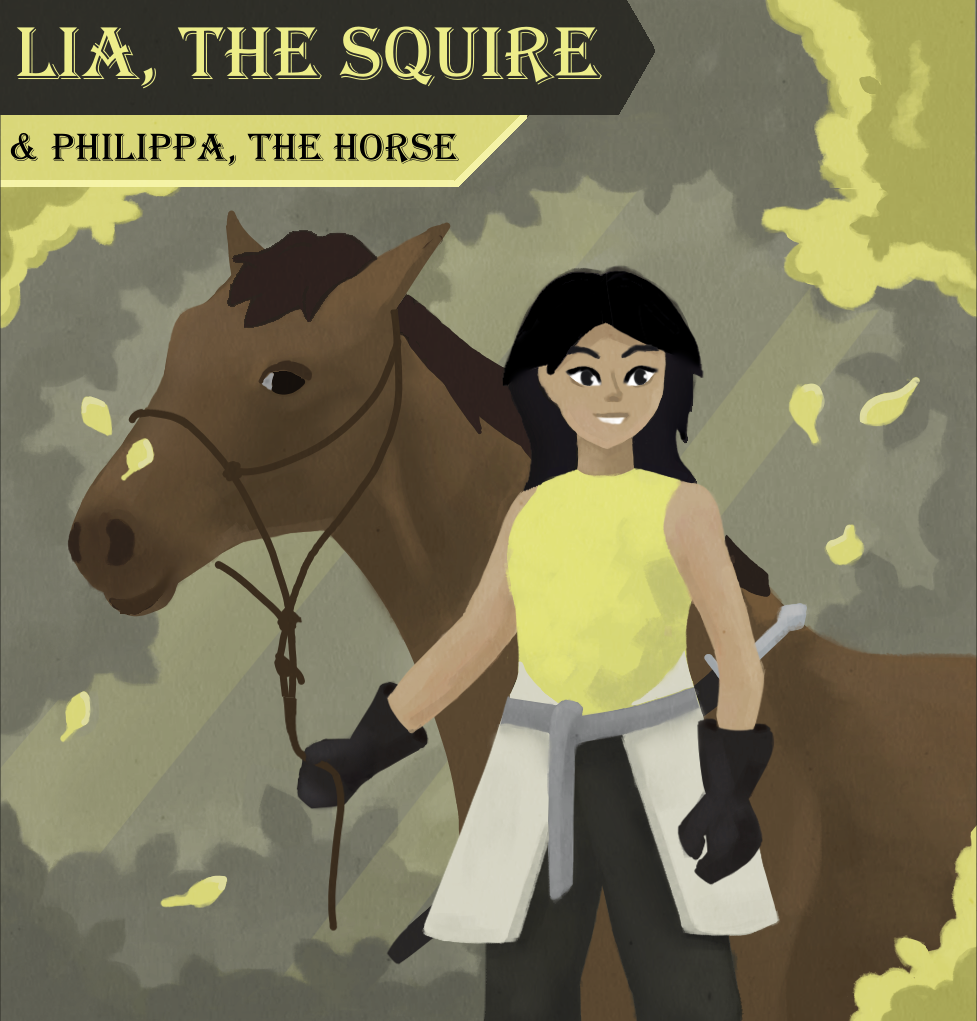
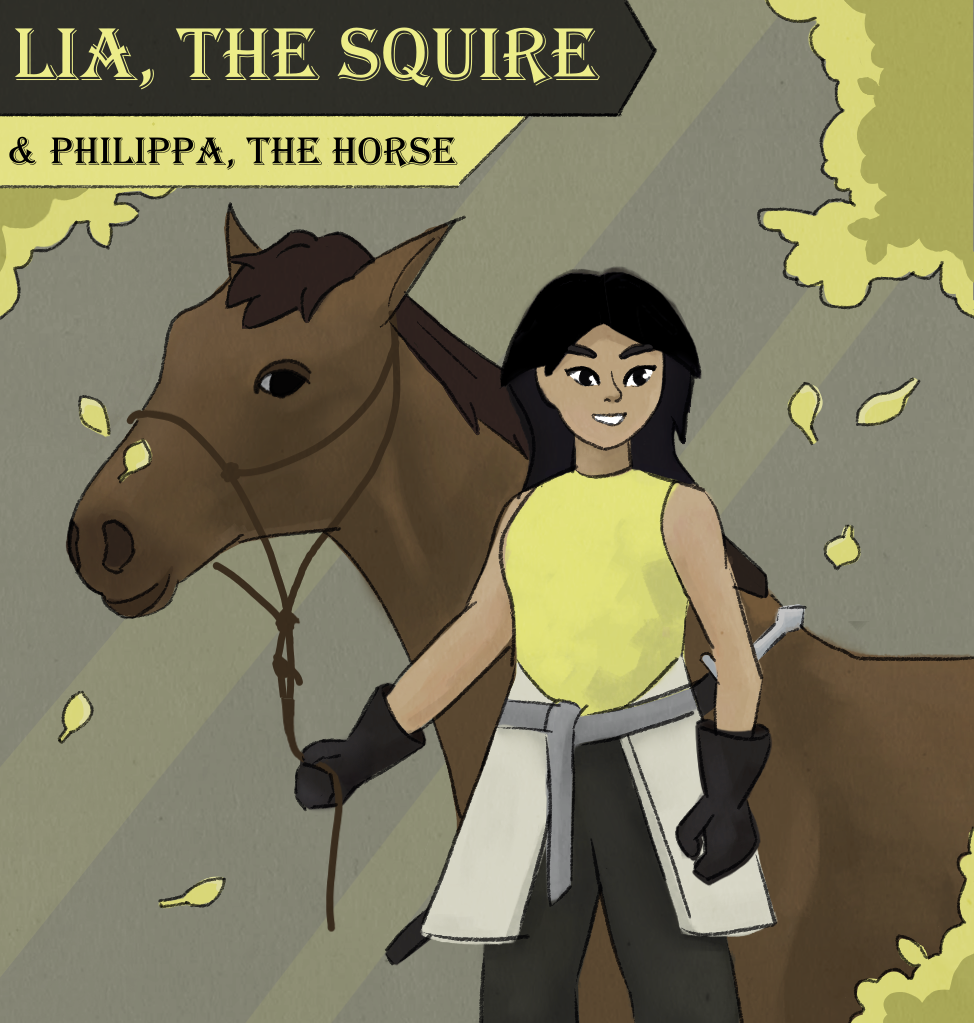
update squire again

diff --git a/art.html b/art.html
@@ -255,7 +255,7 @@
             <img src="images/art/Trixie_4.png" data-group="trixie" data-caption="Final composition thumbnail, with a pass at the face and a more active pose.">
             <img src="images/art/Trixie_5.png" data-group="trixie" data-caption="Flat colors, marking the final shapes and color palette.">
 
-            <img src="images/art/Squire_alt.png" data-group="squire" data-caption="Alternate rendering style-- a more painterly approach, instead of using black outlines.">
+            <img src="images/art/Squire_alt.png" data-group="squire" data-caption="Alternate rendering style, adding black outlines to more clearly define the character.">
             <img src="images/art/Squire_1.png" data-group="squire" data-caption="Initial thumbnails, where I roughed out different color palettes.">
             <img src="images/art/Squire_2.png" data-group="squire" data-caption="Final composition sketch, adding in the title element and framing leaves.">
             <img src="images/art/Squire_3.png" data-group="squire" data-caption="Flat color pass, locking in shapes and colors without doing shading or details yet.">
